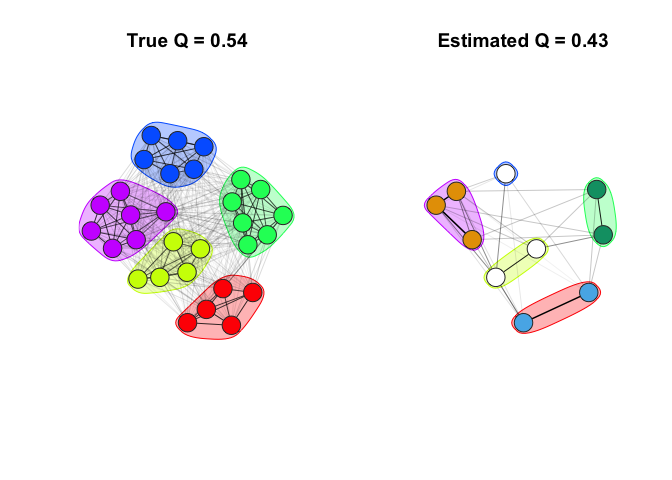
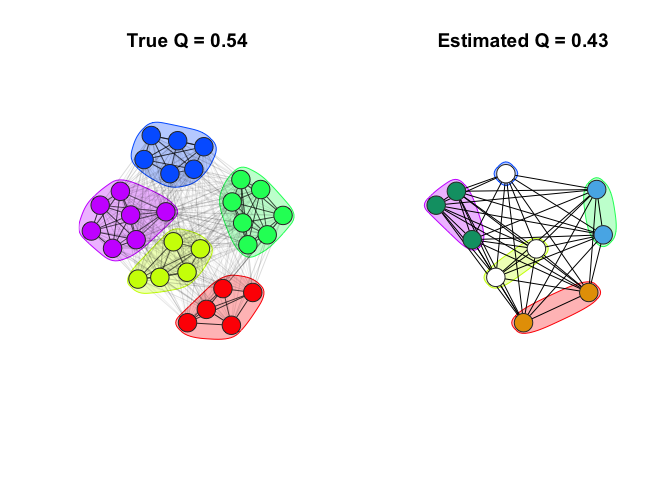
changed simweight to weight

Changed region(s): [[0.625, 0.375, 0.9062, 0.6875]]

diff --git a/README.md b/README.md
@@ -157,12 +157,12 @@ Let’s calculate estimated modularity of the sampled graph.
 
 ``` r
 adj_sample <- as.matrix(igraph::get.adjacency(g_obs, type = "upper",
-    attr = "sim_weight"))
+    attr = "weight"))
 mem_sample <- V(g_obs)$membership
 Qest <- assortnet::assortment.discrete(adj_sample, types = mem_sample,
     weighted = T)$r
 Qest
-#> [1] 0.4338999
+#> [1] 0.4281226
 ```
 
 Now we can plot our sampled graph side-by-side with the original and
